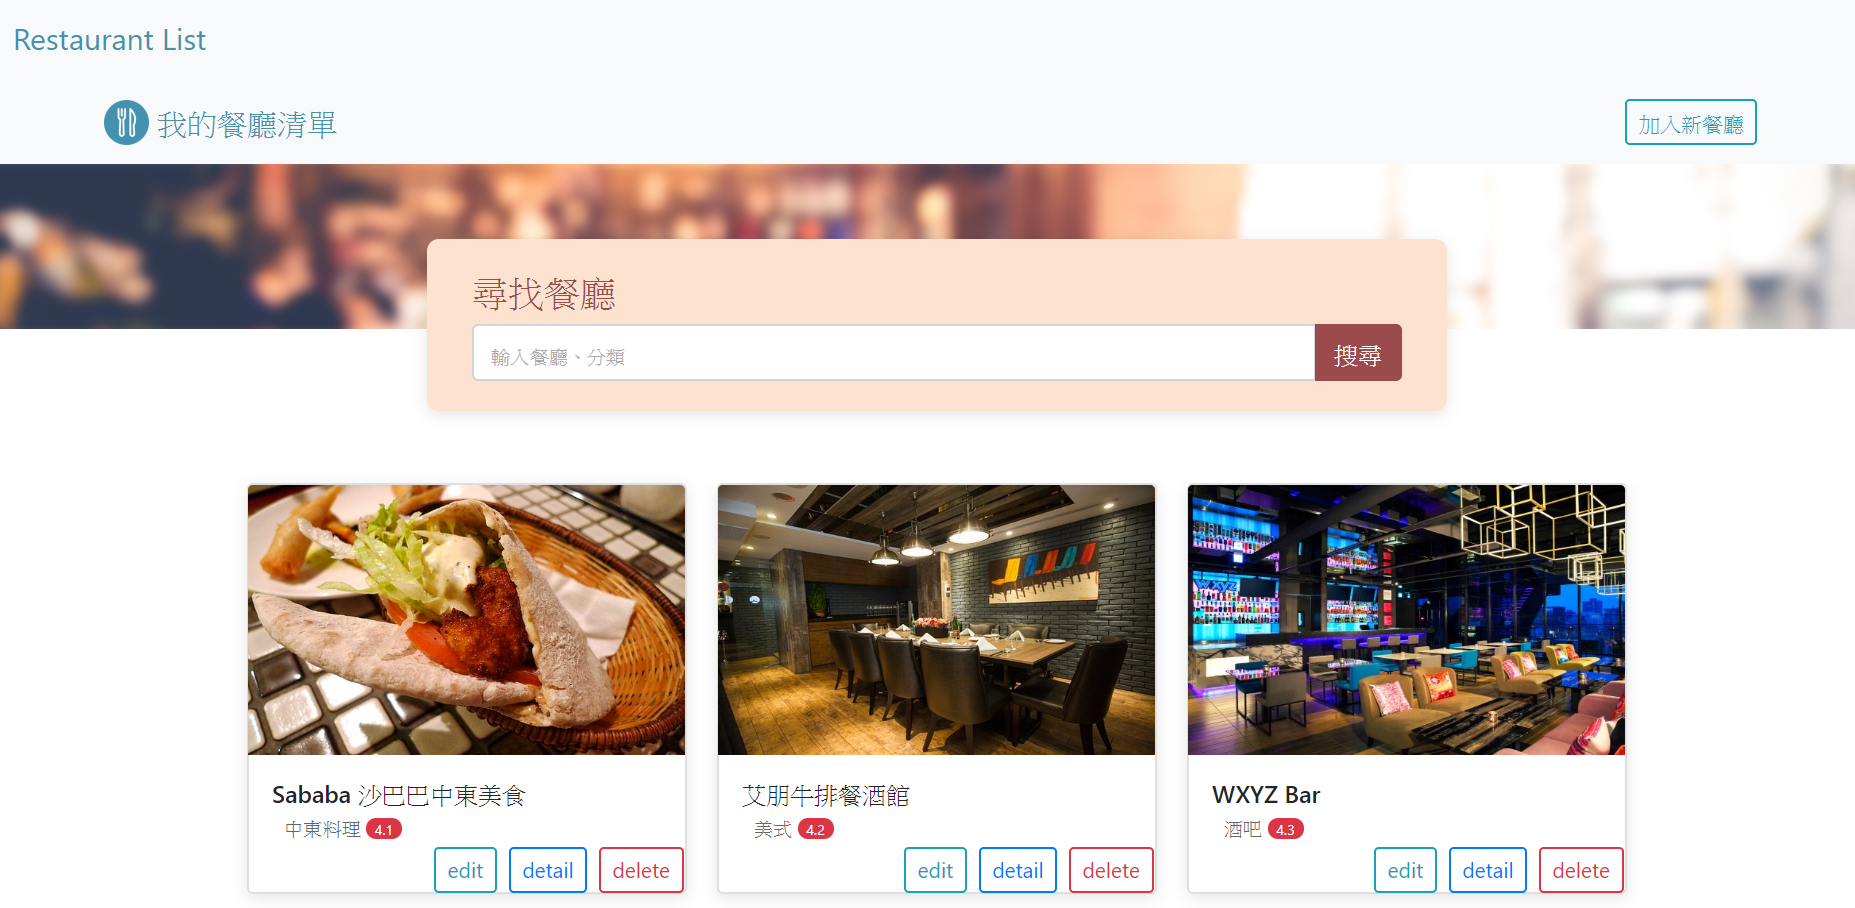
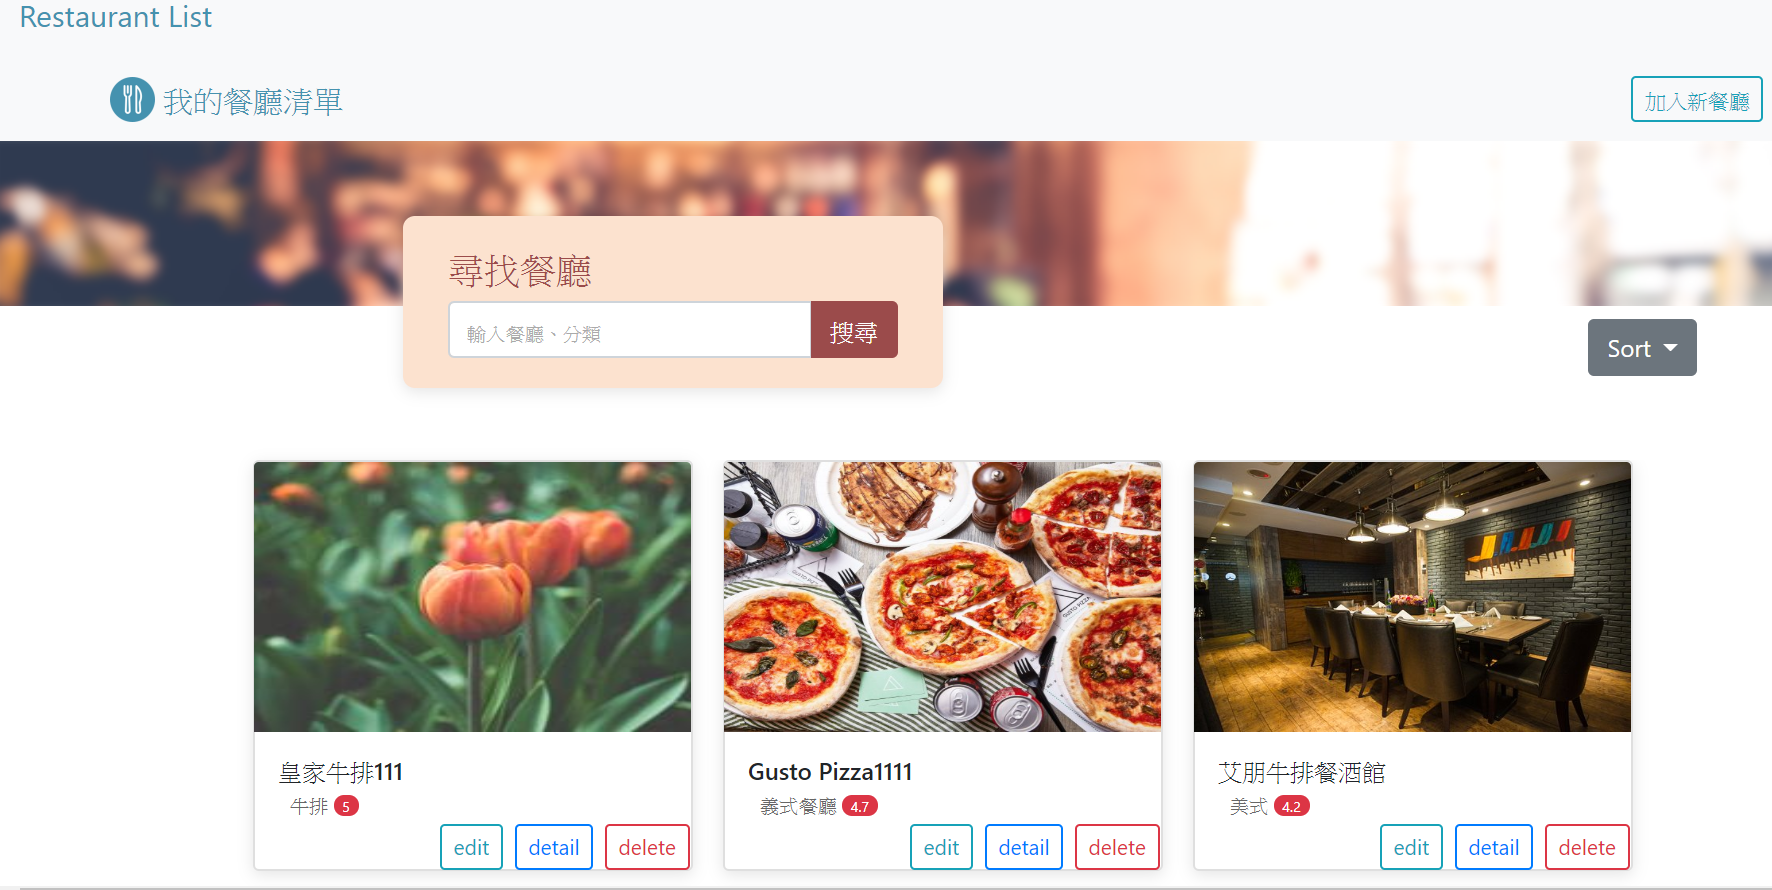
Add todos and home routers

diff --git a/app.js b/app.js
@@ -35,133 +35,135 @@ app.use(methodOverride('_method'))
 app.use(express.static('public'))
 
 // 設定路由
-// restaurant 首頁
-app.get('/', (req, res) => {
-	Restaurant.find().sort({name:'asc'})
-	.exec((err, restaurants) => {             
-		if (err) return console.error(err)
-		return res.render('index', { restaurants: restaurants })  
-	})
-})
+// // restaurant 首頁
+// app.get('/', (req, res) => {
+// 	Restaurant.find().sort({name:'asc'})
+// 	.exec((err, restaurants) => {             
+// 		if (err) return console.error(err)
+// 		return res.render('index', { restaurants: restaurants })  
+// 	})
+// })
+app.use('/', require('./routers/home.js'))
+app.use('/restaurants', require('./routers/restaurants.js'))
 
-//sort restaurants
-app.get('/restaurants/filter', (req, res) => {
-	console.log('req._parsedOriginalUrl.query', req._parsedOriginalUrl.query)
-	switch (req._parsedOriginalUrl.query) {
-		case 'atoz':
-			Restaurant.find((err, restaurants) => {
-				if (err) return console.error(err)
-				return res.render('index', { restaurants: restaurants })
-			}).sort({ name_en: 1 })
-			break;
-		case 'time':
-			Restaurant.find((err, restaurants) => {
-				if (err) return console.error(err)
-				return res.render('index', { restaurants: restaurants })
-			}).sort({ timestamp: 1 })
-			break;
-		case 'rating':
-			Restaurant.find((err, restaurants) => {
-				if (err) return console.error(err)
-				return res.render('index', { restaurants: restaurants })
-			}).sort({ rating: -1 })
-	}
-})
-
-
-// 新增一筆 restaurant 頁面
-app.get('/restaurants/new', (req, res) => {
-	res.render('new')
-})
-
-//new restaurant 頁面輸入資料儲存至mongodb
-app.post('/restaurants', (req, res) => {
-	const restaurant = Restaurant({
-		name: req.body.name,
-		name_en: req.body.name_en,
-		category: req.body.category,
-		image: req.body.image,
-		location: req.body.location,
-		phone: req.body.phone,
-		google_map: req.body.google_map,
-		rating: req.body.rating,
-		description: req.body.description
-	})
-	restaurant.save((err) => {
-		if (err) return console.log(err)
-		console.log(`add ${req.body.name} restaurant in mongodb!`)
-		return res.redirect('/')
-	})
-})
-
-// 顯示一筆 Restaurant 的詳細內容
-app.get('/restaurants/:id', (req, res) => {
-	Restaurant.findById(req.params.id, (err, restaurant) => {
-		console.log(req.params.id)
-		console.log('restaurant', restaurant)
-		return res.render('show', { restaurant: restaurant })
-	})
-})
+// //sort restaurants
+// app.get('/restaurants/filter', (req, res) => {
+// 	console.log('req._parsedOriginalUrl.query', req._parsedOriginalUrl.query)
+// 	switch (req._parsedOriginalUrl.query) {
+// 		case 'atoz':
+// 			Restaurant.find((err, restaurants) => {
+// 				if (err) return console.error(err)
+// 				return res.render('index', { restaurants: restaurants })
+// 			}).sort({ name_en: 1 })
+// 			break;
+// 		case 'time':
+// 			Restaurant.find((err, restaurants) => {
+// 				if (err) return console.error(err)
+// 				return res.render('index', { restaurants: restaurants })
+// 			}).sort({ timestamp: 1 })
+// 			break;
+// 		case 'rating':
+// 			Restaurant.find((err, restaurants) => {
+// 				if (err) return console.error(err)
+// 				return res.render('index', { restaurants: restaurants })
+// 			}).sort({ rating: -1 })
+// 	}
+// })
 
 
-// redirect到修改 restaurant 頁面
-app.get('/restaurants/:id/edit', (req, res) => {
-	//create edit.handlebars
-	Restaurant.findById(req.params.id, (err, restaurant) => {
-		console.log('restaurant description', restaurant.description)
-		return res.render('edit', { restaurant, restaurant })
-	})
-})
+// // 新增一筆 restaurant 頁面
+// app.get('/restaurants/new', (req, res) => {
+// 	res.render('new')
+// })
 
-// 修改 restaurant 資料
-app.put('/restaurants/:id', (req, res) => {
-	Restaurant.findById(req.params.id, (err, restaurant) => {
-		restaurant.name = req.body.name,
-		restaurant.name_en = req.body.name_en,
-		restaurant.category = req.body.category,
-		restaurant.image = req.body.image,
-		restaurant.location = req.body.location,
-		restaurant.phone = req.body.phone,
-		restaurant.google_map = req.body.google_map,
-		restaurant.rating = req.body.rating,
-		restaurant.description = req.body.description
+// //new restaurant 頁面輸入資料儲存至mongodb
+// app.post('/restaurants', (req, res) => {
+// 	const restaurant = Restaurant({
+// 		name: req.body.name,
+// 		name_en: req.body.name_en,
+// 		category: req.body.category,
+// 		image: req.body.image,
+// 		location: req.body.location,
+// 		phone: req.body.phone,
+// 		google_map: req.body.google_map,
+// 		rating: req.body.rating,
+// 		description: req.body.description
+// 	})
+// 	restaurant.save((err) => {
+// 		if (err) return console.log(err)
+// 		console.log(`add ${req.body.name} restaurant in mongodb!`)
+// 		return res.redirect('/')
+// 	})
+// })
+
+// // 顯示一筆 Restaurant 的詳細內容
+// app.get('/restaurants/:id', (req, res) => {
+// 	Restaurant.findById(req.params.id, (err, restaurant) => {
+// 		console.log(req.params.id)
+// 		console.log('restaurant', restaurant)
+// 		return res.render('show', { restaurant: restaurant })
+// 	})
+// })
+
+
+// // redirect到修改 restaurant 頁面
+// app.get('/restaurants/:id/edit', (req, res) => {
+// 	//create edit.handlebars
+// 	Restaurant.findById(req.params.id, (err, restaurant) => {
+// 		console.log('restaurant description', restaurant.description)
+// 		return res.render('edit', { restaurant, restaurant })
+// 	})
+// })
+
+// // 修改 restaurant 資料
+// app.put('/restaurants/:id', (req, res) => {
+// 	Restaurant.findById(req.params.id, (err, restaurant) => {
+// 		restaurant.name = req.body.name,
+// 		restaurant.name_en = req.body.name_en,
+// 		restaurant.category = req.body.category,
+// 		restaurant.image = req.body.image,
+// 		restaurant.location = req.body.location,
+// 		restaurant.phone = req.body.phone,
+// 		restaurant.google_map = req.body.google_map,
+// 		restaurant.rating = req.body.rating,
+// 		restaurant.description = req.body.description
 		
-		restaurant.save((err) => {
-			console.log('restaurant.id', restaurant.id)
-			return res.redirect('/restaurants/' + restaurant.id)
-		})
-	})
-})
+// 		restaurant.save((err) => {
+// 			console.log('restaurant.id', restaurant.id)
+// 			return res.redirect('/restaurants/' + restaurant.id)
+// 		})
+// 	})
+// })
 
 
 
-// 刪除 restaurant
-app.delete('/restaurants/:id/delete', (req, res) => {
+// // 刪除 restaurant
+// app.delete('/restaurants/:id/delete', (req, res) => {
 	
-		Restaurant.findById(req.params.id, (err, restaurant) => {
-			if (err) return console.error(err)
-			restaurant.remove(err => {
-				if (err) return console.error(err)
-				return res.redirect('/')
-			})
-   })		
+// 		Restaurant.findById(req.params.id, (err, restaurant) => {
+// 			if (err) return console.error(err)
+// 			restaurant.remove(err => {
+// 				if (err) return console.error(err)
+// 				return res.redirect('/')
+// 			})
+//    })		
 			
-})
+// })
 	
 
 //search
 
-app.get('/search', (req, res) => {
-	Restaurant.find((err, restaurants) => {
-		const keyword = req.query.keyword
-		if (err) return console.error(err)
-		const restaurantSearch = restaurants.filter(({name, category}) => {
-			// return (name || category) includes keyword
-			return (category.toLowerCase().includes(keyword.toLowerCase()) || name.toLowerCase().includes(keyword.toLowerCase()))
-		})
-		return res.render('index', { restaurants: restaurantSearch })
-	})	
-})
+// app.get('/search', (req, res) => {
+// 	Restaurant.find((err, restaurants) => {
+// 		const keyword = req.query.keyword
+// 		if (err) return console.error(err)
+// 		const restaurantSearch = restaurants.filter(({name, category}) => {
+// 			// return (name || category) includes keyword
+// 			return (category.toLowerCase().includes(keyword.toLowerCase()) || name.toLowerCase().includes(keyword.toLowerCase()))
+// 		})
+// 		return res.render('index', { restaurants: restaurantSearch })
+// 	})	
+// })
 
 
 //設定express port 3000

diff --git a/routers/restaurants.js b/routers/restaurants.js
@@ -1,0 +1,115 @@
+const express = require('express')
+const router = express.Router()
+const Restaurant = require('../models/restaurant.js')
+
+//sort restaurants
+router.get('/filter', (req, res) => {
+	console.log('req._parsedOriginalUrl.query', req._parsedOriginalUrl.query)
+	switch (req._parsedOriginalUrl.query) {
+		case 'atoz':
+			Restaurant.find((err, restaurants) => {
+				if (err) return console.error(err)
+				return res.render('index', { restaurants: restaurants })
+			}).sort({ name_en: 1 })
+			break;
+		case 'time':
+			Restaurant.find((err, restaurants) => {
+				if (err) return console.error(err)
+				return res.render('index', { restaurants: restaurants })
+			}).sort({ timestamp: -1 })
+			break;
+		case 'rating':
+			Restaurant.find((err, restaurants) => {
+				if (err) return console.error(err)
+				return res.render('index', { restaurants: restaurants })
+			}).sort({ rating: -1 })
+	}
+})
+
+
+// 新增一筆 restaurant 頁面
+router.get('/new', (req, res) => {
+	res.render('new')
+})
+
+//new restaurant 頁面輸入資料儲存至mongodb
+router.post('', (req, res) => {
+	const restaurant = Restaurant({
+		name: req.body.name,
+		name_en: req.body.name_en,
+		category: req.body.category,
+		image: req.body.image,
+		location: req.body.location,
+		phone: req.body.phone,
+		google_map: req.body.google_map,
+		rating: req.body.rating,
+		description: req.body.description
+		
+	})
+	restaurant.save((err) => {
+		if (err) return console.log(err)
+		console.log(`add ${req.body.name} restaurant in mongodb!`)
+		return res.redirect('/')
+	})
+})
+
+// 顯示一筆 Restaurant 的詳細內容
+router.get('/:id', (req, res) => {
+	Restaurant.findById(req.params.id, (err, restaurant) => {
+		console.log(req.params.id)
+		console.log('restaurant', restaurant)
+		return res.render('show', { restaurant: restaurant })
+	})
+})
+
+
+// redirect到修改 restaurant 頁面
+router.get('/:id/edit', (req, res) => {
+	//create edit.handlebars
+	Restaurant.findById(req.params.id, (err, restaurant) => {
+		console.log('restaurant description', restaurant.description)
+		return res.render('edit', { restaurant, restaurant })
+	})
+})
+
+// 修改 restaurant 資料
+router.put('/:id', (req, res) => {
+	Restaurant.findById(req.params.id, (err, restaurant) => {
+		restaurant.name = req.body.name,
+			restaurant.name_en = req.body.name_en,
+			restaurant.category = req.body.category,
+			restaurant.image = req.body.image,
+			restaurant.location = req.body.location,
+			restaurant.phone = req.body.phone,
+			restaurant.google_map = req.body.google_map,
+			restaurant.rating = req.body.rating,
+			restaurant.description = req.body.description,
+			restaurant.timestamp = Date.now()
+	
+
+		restaurant.save((err) => {
+			if (err) return console.error(err)
+			return res.redirect('/restaurants/' + restaurant.id)
+		})
+	})
+})
+
+
+
+// 刪除 restaurant
+router.delete('/:id/delete', (req, res) => {
+
+	Restaurant.findById(req.params.id, (err, restaurant) => {
+		if (err) return console.error(err)
+		restaurant.remove(err => {
+			if (err) return console.error(err)
+			return res.redirect('/')
+		})
+	})
+
+})
+
+
+
+
+module.exports = router

diff --git a/routers/home.js b/routers/home.js
@@ -1,0 +1,25 @@
+const express = require('express')
+const router = express.Router()
+const Restaurant = require('../models/restaurant.js')
+
+// restaurant 首頁
+router.get('/', (req, res) => {
+	Restaurant.find().sort({ name: 'asc' })
+		.exec((err, restaurants) => {
+			if (err) return console.error(err)
+			return res.render('index', { restaurants: restaurants })
+		})
+})
+router.get('/search', (req, res) => {
+	Restaurant.find((err, restaurants) => {
+		const keyword = req.query.keyword
+		if (err) return console.error(err)
+		const restaurantSearch = restaurants.filter(({ name, category }) => {
+			// return (name || category) includes keyword
+			return (category.toLowerCase().includes(keyword.toLowerCase()) || name.toLowerCase().includes(keyword.toLowerCase()))
+		})
+		return res.render('index', { restaurants: restaurantSearch })
+	})
+})
+
+module.exports = router

diff --git a/models/restaurant.js b/models/restaurant.js
@@ -43,7 +43,7 @@ const restaurantSchema = new Schema({
 	},
 	timestamp: { 
 		type: Date, 
-		default: Date.now,
+		default: Date.now(),
 	}
 
 })
